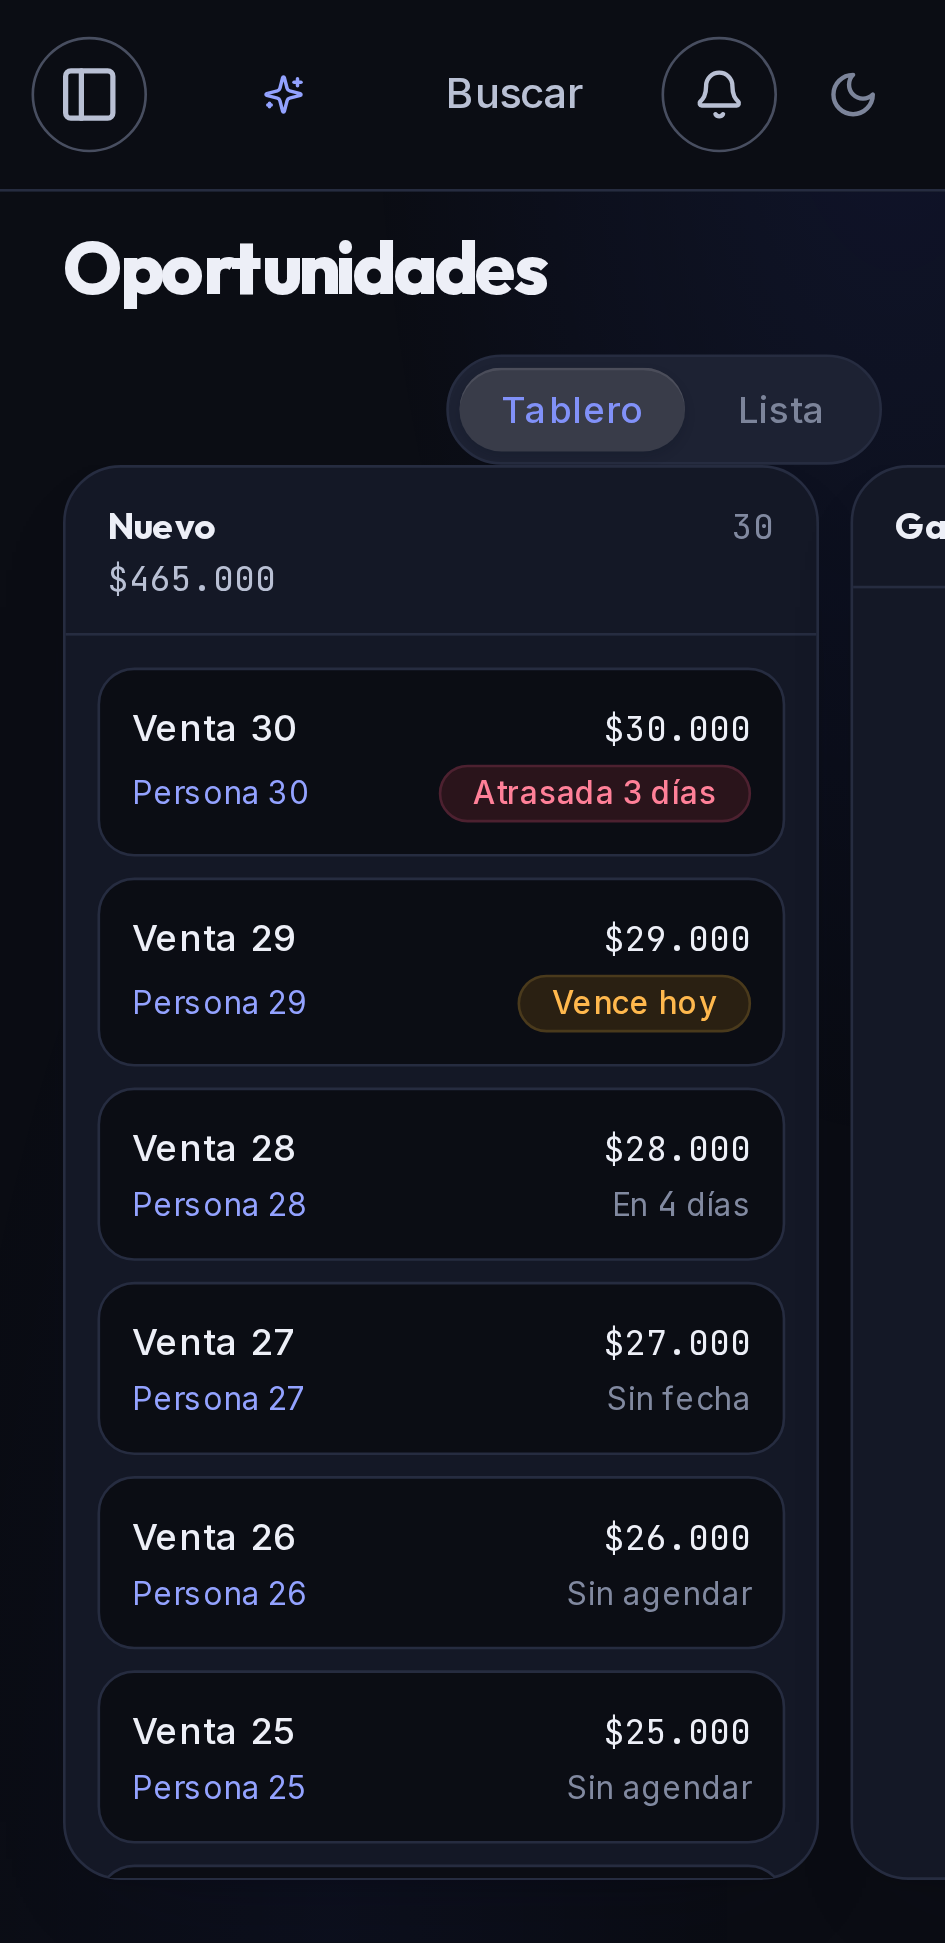
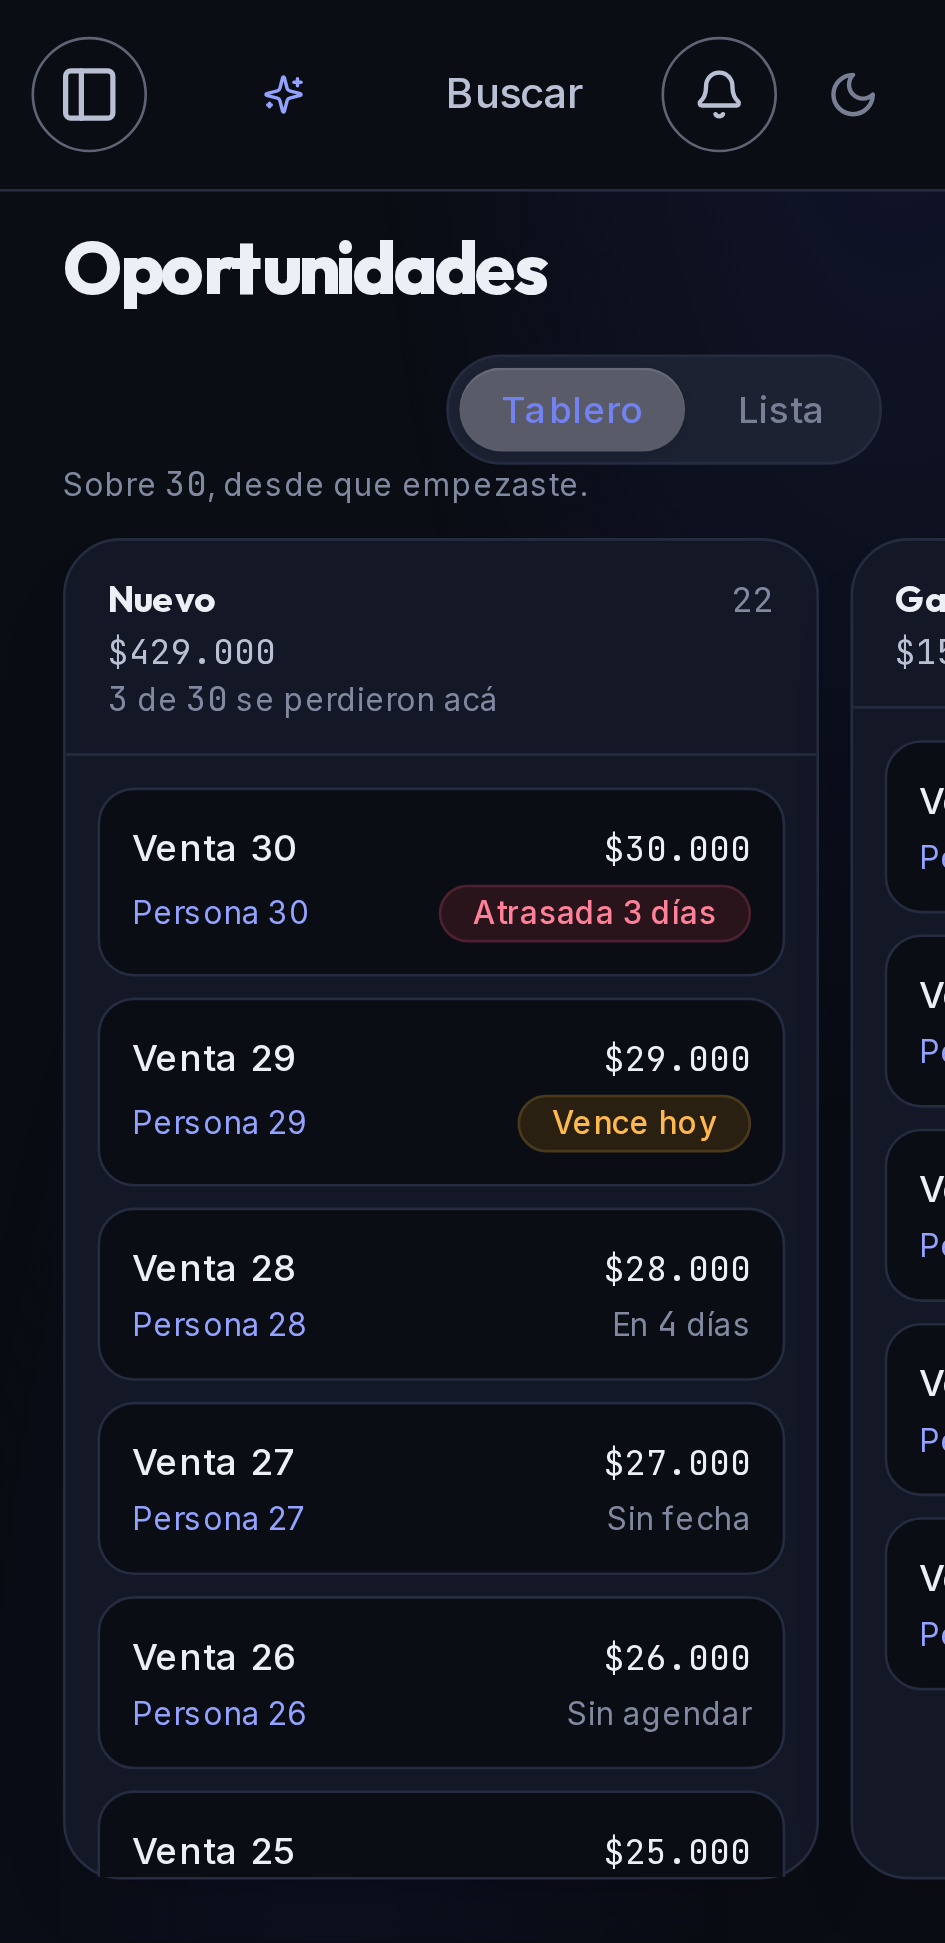
feat(crm): el tablero dice por dónde se cae el embudo
«No se entiende el embudo», con Pipedrive como referencia, dicho mirando el
tablero. Un tablero contesta «qué hay ahora»; un embudo contesta «por dónde
se cae la gente», y eso no se deduce mirando las columnas: una etapa con 30 y
la siguiente con 0 se ve igual en un embudo que no convierte y en uno que
recién arrancó.

La medición ya existía (#695) y se dibujaba SOLO dentro de Reportes, que se
vende con el plan Equipo. Pero el endpoint es de crm y pide crm.deals.read:
el mismo módulo y el mismo permiso que este tablero. Quien mira estas
columnas ya tenía derecho a esta lectura y no tenía dónde verla; lo que se
vende con el plan es la PANTALLA de reportes, no el dato. Decisión del dueño:
que la vean todos.

Qué trae:

- Una línea sobre las columnas: sobre cuántas está midiendo y en qué etapa se
  cae más. Se calla entera sin oportunidades.
- En la cabecera de cada etapa abierta, cuántas se perdieron ahí. Nada cuando
  no se perdió ninguna: una línea repetida en cada columna por algo que no
  pasó es alto desperdiciado.
- Sin from ni to a propósito: el endpoint toma entonces todo el historial y
  el tablero no calcula fechas en el navegador, que no conoce la zona del
  negocio y de noche se corre un día. El alcance se dice en pantalla.
- Degrada en silencio: el tablero es para trabajar y esto es un extra.

Lo que NO muestra, y por qué:

La conversión que publica ese endpoint hoy no se puede mostrar sin mentir, y
[…]

diff --git a/apps/web/components/crm/oportunidades.tsx b/apps/web/components/crm/oportunidades.tsx
@@ -12,6 +12,7 @@ import {
   type DealCardDto,
   type LossReasonDto,
   type PipelineDto,
+  type EmbudoDto,
   type SavedFilterDto,
   type StageDto,
   mensajeDeError,
@@ -165,6 +166,87 @@ export function QueHayQueHacer({ deal }: { deal: DealCardDto }) {
   return <span className="shrink-0 text-xs text-muted">Sin agendar</span>;
 }
 
+/**
+ * Sobre cuántas está midiendo el embudo (#1303).
+ *
+ * Una sola frase, y es la que las cabeceras no pueden decir solas: que las
+ * pérdidas de cada columna se cuentan sobre TODO el historial y no sobre lo
+ * que hay en pantalla. Sin eso, el «de 30» de la cabecera se confunde con el
+ * conteo de la columna, que está tres líneas más arriba y dice otra cosa.
+ *
+ * ## Lo que esta frase decía de más
+ *
+ * Decía también en qué etapa se cae más —«Se cae más en Nuevo: 3 perdidas»—
+ * y era repetir lo que la cabecera de esa misma columna ya muestra. Con un
+ * solo embudo abierto es literalmente la misma frase dos veces en la misma
+ * pantalla; con varios, es el mismo dato que el lector tiene delante.
+ *
+ * Lo cazó el techo de prosa (#1157): la pantalla llegó a 26 palabras con un
+ * techo de 16. La guarda tenía razón por el motivo correcto — no era que
+ * sobrara texto, era que sobraba un dato repetido.
+ *
+ * Se calla entera sin oportunidades: sin datos no hay embudo, y una línea
+ * que diga «sobre 0» es ruido que ocupa alto.
+ */
+function LecturaDelEmbudo({ embudo }: { embudo: EmbudoDto | null }) {
+  if (!embudo || embudo.oportunidades === 0) return null;
+  return (
+    <p className="shrink-0 px-6 pb-3 text-xs text-muted">
+      Sobre <span className="dato">{embudo.oportunidades}</span>, desde que empezaste.
+    </p>
+  );
+}
+
+/**
+ * Cuántas se pierden EN esta etapa (#1303).
+ *
+ * La queja era «no se entiende el embudo». Un tablero contesta «qué hay
+ * ahora»; un embudo contesta «por dónde se cae la gente». Son preguntas
+ * distintas, y la segunda no se puede deducir mirando las columnas: una etapa
+ * con 30 y la siguiente con 0 se ve igual en un embudo que no convierte y en
+ * uno que recién arrancó.
+ *
+ * El dato viene de `GET /pipelines/:id/embudo` (#695), que lo mide del
+ * historial real (`deal_stage_history`) y no dividiendo el conteo de una
+ * columna por el de la anterior, que es la versión falsa.
+ *
+ * ## Por qué las PÉRDIDAS y no la conversión
+ *
+ * Dos motivos, y conviene separarlos porque uno ya caducó.
+ *
+ * El que lo destapó: al poner la conversión acá se vio que estaba rota
+ * —`avanzaron` contaba las perdidas como avanzadas, porque «Perdido» está
+ * después de «Ganado» por posición, y un embudo donde se pierde todo marcaba
+ * 100 %—. Eso **ya está arreglado** (#1310), así que no es el motivo por el
+ * que esta cabecera sigue mostrando pérdidas. Queda escrito para que nadie
+ * lo busque y no lo encuentre.
+ *
+ * El motivo que se mantiene:
+ *
+ *  - **Un conteo se lee sin traducir y un porcentaje con volúmenes chicos
+ *    miente por omisión.** La primera versión de esta cabecera decía «0 %
+ *    avanzó desde acá» sobre 30 oportunidades creadas el mismo día: cierto y
+ *    engañoso, porque se lee «tu embudo no convierte» cuando dice «recién
+ *    empezaste». Un negocio que arranca es exactamente el caso de IAxTi.
+ *  - **Las pérdidas son la pregunta.** Lo que se pidió fue entender por
+ *    dónde se cae la gente, no cuánto convierte cada etapa. La conversión
+ *    completa, con su ciclo de venta y su comparación entre períodos, está
+ *    en Reportes, que es donde se mira una vez por semana.
+ *
+ * Sin pérdidas no dice nada: una etapa por la que no se cae nadie no necesita
+ * una línea que lo repita en cada columna, y en el tablero el alto es lo caro.
+ * Solo en etapas ABIERTAS: «cuántas se pierden en Ganado» no es una pregunta.
+ */
+function DondeSePierde({ etapa }: { etapa: EmbudoDto['etapas'][number] | undefined }) {
+  if (!etapa || etapa.type !== 'open' || etapa.perdidas === 0) return null;
+  return (
+    <p className="mt-0.5 text-xs text-muted">
+      <span className="dato">{etapa.perdidas}</span> de <span className="dato">{etapa.entraron}</span>{' '}
+      {etapa.perdidas === 1 ? 'se perdió acá' : 'se perdieron acá'}
+    </p>
+  );
+}
+
 // Radix no admite `value=""` en un item: la cadena vacía es su "sin
 // selección". Los filtros "todas" y "según mi visibilidad" son opciones
 // elegibles, así que van con centinela y se traducen al salir.
@@ -204,6 +286,24 @@ function OportunidadesDelNegocio({ tenant }: { tenant: string }) {
   // es el dinero de la etapa. Viene del servidor en una consulta para todo el
   // tablero.
   const [resumen, setResumen] = useState<Record<string, { cuantas: number; totalClp: number }>>({});
+  /**
+   * El embudo leído, en el tablero (#1303).
+   *
+   * La medición ya existía (#695) y se dibujaba SOLO dentro de Reportes, que
+   * se vende con el plan Equipo. El endpoint, en cambio, es de `crm` y pide
+   * `crm.deals.read`: el mismo módulo y el mismo permiso que este tablero.
+   * O sea que quien mira estas columnas ya tenía derecho a esta lectura y no
+   * tenía dónde verla. Lo que se vende con el plan es la PANTALLA de
+   * reportes, no el dato.
+   *
+   * Sin `from` ni `to` a propósito: el endpoint toma entonces todo el
+   * historial, y el tablero no tiene que calcular «hace 90 días» en el
+   * navegador —que no conoce la zona del negocio y de noche se corre un día—.
+   * El alcance se dice en pantalla con todas sus letras.
+   *
+   * `null` es «no se pudo» y se calla; no se inventa un 0 %.
+   */
+  const [embudo, setEmbudo] = useState<EmbudoDto | null>(null);
 
   // Lista
   const [lista, setLista] = useState<DealCardDto[]>([]);
@@ -274,11 +374,24 @@ function OportunidadesDelNegocio({ tenant }: { tenant: string }) {
     }
   }, [api, pipelineId]);
 
+  const cargarEmbudo = useCallback(async () => {
+    if (!pipelineId) return;
+    try {
+      setEmbudo(await api<EmbudoDto>(`/pipelines/${pipelineId}/embudo`));
+    } catch {
+      // Degrada en silencio: el tablero es para trabajar y la lectura del
+      // embudo es un extra. Un aviso rojo arriba por algo que nadie pidió
+      // sería peor que no mostrarlo.
+      setEmbudo(null);
+    }
+  }, [api, pipelineId]);
+
   useEffect(() => {
     if (!pipeline) return;
     for (const stage of pipeline.stages) void cargarColumna(stage);
     void cargarResumen();
-  }, [pipeline, cargarColumna, cargarResumen]);
+    void cargarEmbudo();
+  }, [pipeline, cargarColumna, cargarResumen, cargarEmbudo]);
 
   const cargarLista = useCallback(async () => {
     if (!client) return;
@@ -421,6 +534,8 @@ function OportunidadesDelNegocio({ tenant }: { tenant: string }) {
              cargar el tablero se desplazaba 24 px solo y la primera columna
              quedaba pegada al borde izquierdo. Se vio en la captura de
              celular. */
+        <>
+          <LecturaDelEmbudo embudo={embudo} />
           <div className="flex min-h-0 flex-1 snap-x scroll-px-6 gap-3 overflow-x-auto px-6 pb-6">
           {pipeline.stages.map((stage) => {
             const col = columnas[stage.id];
@@ -446,6 +561,7 @@ function OportunidadesDelNegocio({ tenant }: { tenant: string }) {
                   {total && total.cuantas > 0 && (
                     <p className="dato mt-0.5 text-xs text-body">{fmtClp(total.totalClp)}</p>
                   )}
+                  <DondeSePierde etapa={embudo?.etapas.find((e) => e.stageId === stage.id)} />
                 </header>
                 <div className="flex min-h-0 flex-1 flex-col gap-2 overflow-y-auto p-3">
                   {col?.cargando && !col.items.length ? (
@@ -477,7 +593,8 @@ function OportunidadesDelNegocio({ tenant }: { tenant: string }) {
               </section>
             );
           })}
-        </div>
+          </div>
+        </>
       ) : (
         <div className="min-h-0 flex-1 overflow-y-auto px-6 pb-6">
           {/* Filtros + guardados por usuario. */}

diff --git a/apps/web/e2e/el-embudo-en-el-tablero.spec.ts b/apps/web/e2e/el-embudo-en-el-tablero.spec.ts
@@ -1,0 +1,70 @@
+import { expect, test } from '@playwright/test';
+import { mkdirSync, readFileSync } from 'node:fs';
+import { join } from 'node:path';
+
+const auth = JSON.parse(readFileSync(join(__dirname, '.auth.json'), 'utf8'));
+
+/**
+ * El embudo se entiende desde el tablero (#1303).
+ *
+ * La medición existía desde #695 y se dibujaba solo dentro de Reportes, que
+ * se vende con el plan Equipo. El endpoint es de `crm` y pide el mismo
+ * permiso que el tablero: quien mira estas columnas ya tenía derecho a esta
+ * lectura y no tenía dónde verla.
+ */
+test.beforeEach(async ({ page }) => {
+  await page.addInitScript((auth) => {
+    localStorage.setItem('iaxti-tenant', auth.tableTenantId);
+    localStorage.setItem('sb-127-auth-token', JSON.stringify({
+      access_token: auth.accessToken, token_type: 'bearer', expires_in: 3600,
+      expires_at: Math.floor(Date.now() / 1000) + 3600, refresh_token: 'e2e',
+      user: { id: auth.userId, aud: 'authenticated', email: 'tablas@e2e.cl' },
+    }));
+  }, auth);
+});
+
+test('el tablero dice sobre cuántas está midiendo', async ({ page }) => {
+  await page.setViewportSize({ width: 1280, height: 900 });
+  await page.goto('/oportunidades');
+  await expect(page.getByRole('region', { name: 'Etapa Nuevo' })).toBeVisible();
+
+  // Una lectura sin alcance no significa nada: sobre cuántas se mide, y que
+  // es desde el principio y no sobre lo que hay en pantalla.
+  await expect(page.getByText(/Sobre\s*30\s*,?\s*desde que empezaste/)).toBeVisible();
+
+  // Y la respuesta a la pregunta, en la cabecera de la etapa: por dónde se
+  // cae, con su denominador. Es el número BIEN medido — NO la conversión que
+  // publica el endpoint, que cuenta las perdidas como avanzadas (#1310) y
+  // daría 100 % en un embudo donde se pierde todo.
+  const columna = page.getByRole('region', { name: 'Etapa Nuevo' });
+  await expect(columna.getByText(/3\s*de\s*30\s*se perdieron acá/)).toBeVisible();
+  await expect(columna.getByText(/avanzaron/)).toHaveCount(0);
+
+  // La frase de arriba NO repite lo que ya dice la cabecera: eso fue lo que
+  // la hizo pasarse del techo de prosa (#1157) la primera vez.
+  await expect(page.getByText(/Se cae más en/)).toHaveCount(0);
+
+  const folder = join(__dirname, '../../../docs/evidencias/1303');
+  mkdirSync(folder, { recursive: true });
+  for (const modo of ['dia', 'noche'] as const) {
+    await page.evaluate((m) => document.documentElement.setAttribute('data-mode', m), modo);
+    await page.screenshot({ path: join(folder, `embudo-${modo}.png`) });
+  }
+});
+
+test('a 360 px la lectura no se come el tablero', async ({ page }) => {
+  await page.setViewportSize({ width: 360, height: 740 });
+  await page.goto('/oportunidades');
+  const columna = page.getByRole('region', { name: 'Etapa Nuevo' });
+  await expect(columna).toBeVisible();
+  // La columna tiene que seguir teniendo alto para trabajar: si la frase se
+  // comiera el tablero, esto lo vería.
+  const caja = await columna.boundingBox();
+  expect(caja!.height).toBeGreaterThan(400);
+  const ancho = await page.evaluate(() => document.documentElement.scrollWidth);
+  expect(ancho).toBeLessThanOrEqual(361);
+
+  const folder = join(__dirname, '../../../docs/evidencias/1303');
+  mkdirSync(folder, { recursive: true });
+  await page.screenshot({ path: join(folder, 'embudo-celular.png'), fullPage: true });
+});
